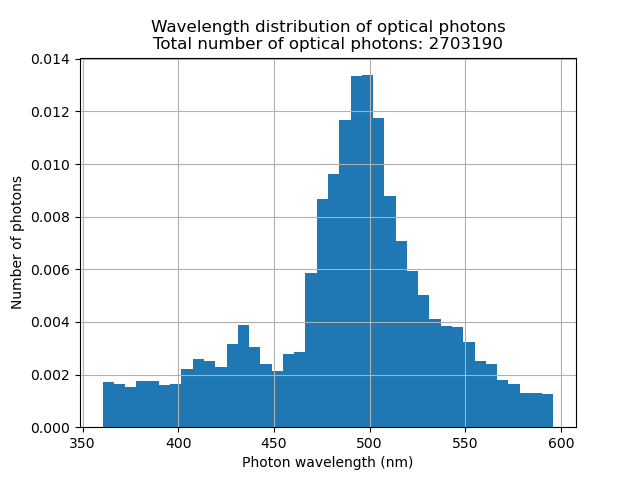
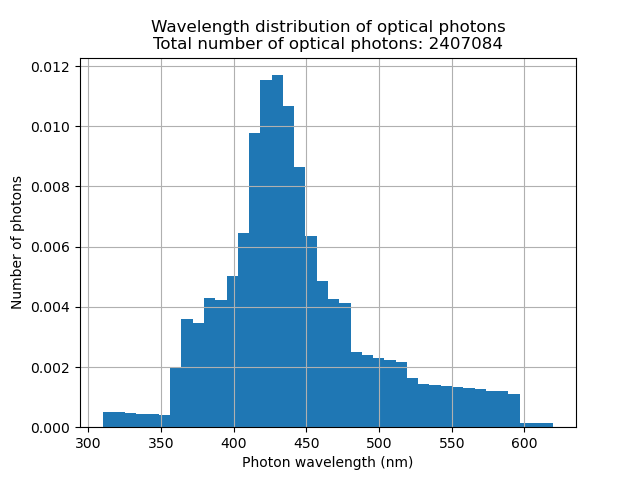
commenting Wavelength shifting

diff --git a/basic_square-SOURCE/src/DetectorConstruction.cc b/basic_square-SOURCE/src/DetectorConstruction.cc
@@ -122,9 +122,9 @@ G4VPhysicalVolume* DetectorConstruction::Construct()
   std::reverse(PhotonEnergy_WLS_EM_core, PhotonEnergy_WLS_EM_core + NUMENTRIES3);
   std::reverse(WLS_EMISSION_core, WLS_EMISSION_core + NUMENTRIES3);
 
-  scintillator_mt->AddProperty("WLSABSLENGTH", PhotonEnergy_WLS_ABS_core, WLS_ABSLENGTH_core, NUMENTRIES2);
-  scintillator_mt->AddProperty("WLSCOMPONENT", PhotonEnergy_WLS_EM_core, WLS_EMISSION_core, NUMENTRIES3);
-  scintillator_mt->AddConstProperty("WLSTIMECONSTANT", 0.5*ns);
+  //scintillator_mt->AddProperty("WLSABSLENGTH", PhotonEnergy_WLS_ABS_core, WLS_ABSLENGTH_core, NUMENTRIES2);
+  //scintillator_mt->AddProperty("WLSCOMPONENT", PhotonEnergy_WLS_EM_core, WLS_EMISSION_core, NUMENTRIES3);
+  //scintillator_mt->AddConstProperty("WLSTIMECONSTANT", 0.5*ns);
   scintillator->SetMaterialPropertiesTable(scintillator_mt);
 
   // World construction
@@ -149,7 +149,7 @@ G4VPhysicalVolume* DetectorConstruction::Construct()
   // Silicon properties
   G4MaterialPropertiesTable* siliconBulk = new G4MaterialPropertiesTable();
   G4double energySi[2] = {2.0*eV, 4.0*eV};
-  G4double rindexSi[2] = {1.58, 1.58};
+  G4double rindexSi[2] = {3.9, 5.0};
   siliconBulk->AddProperty("RINDEX", energySi, rindexSi, 2);
   silicon->SetMaterialPropertiesTable(siliconBulk);
   
@@ -158,7 +158,7 @@ G4VPhysicalVolume* DetectorConstruction::Construct()
   G4double detectorZ = 0.25 * mm;
   
   G4Box* detectorBox = new G4Box("detectorBox",detectorX/2.,detectorY/2.,detectorZ/2.);
-  G4LogicalVolume* detectorLog = new G4LogicalVolume(detectorBox, scintillator, "detectorLog");
+  G4LogicalVolume* detectorLog = new G4LogicalVolume(detectorBox, silicon, "detectorLog");
   G4VPhysicalVolume* detectorPhys = new G4PVPlacement(0, G4ThreeVector(0.,0., -1.*(plasticZ + detectorZ)/2.), detectorLog, "detector", worldLog, false, 0); 
   
   // Adding Aluminum wrap 
